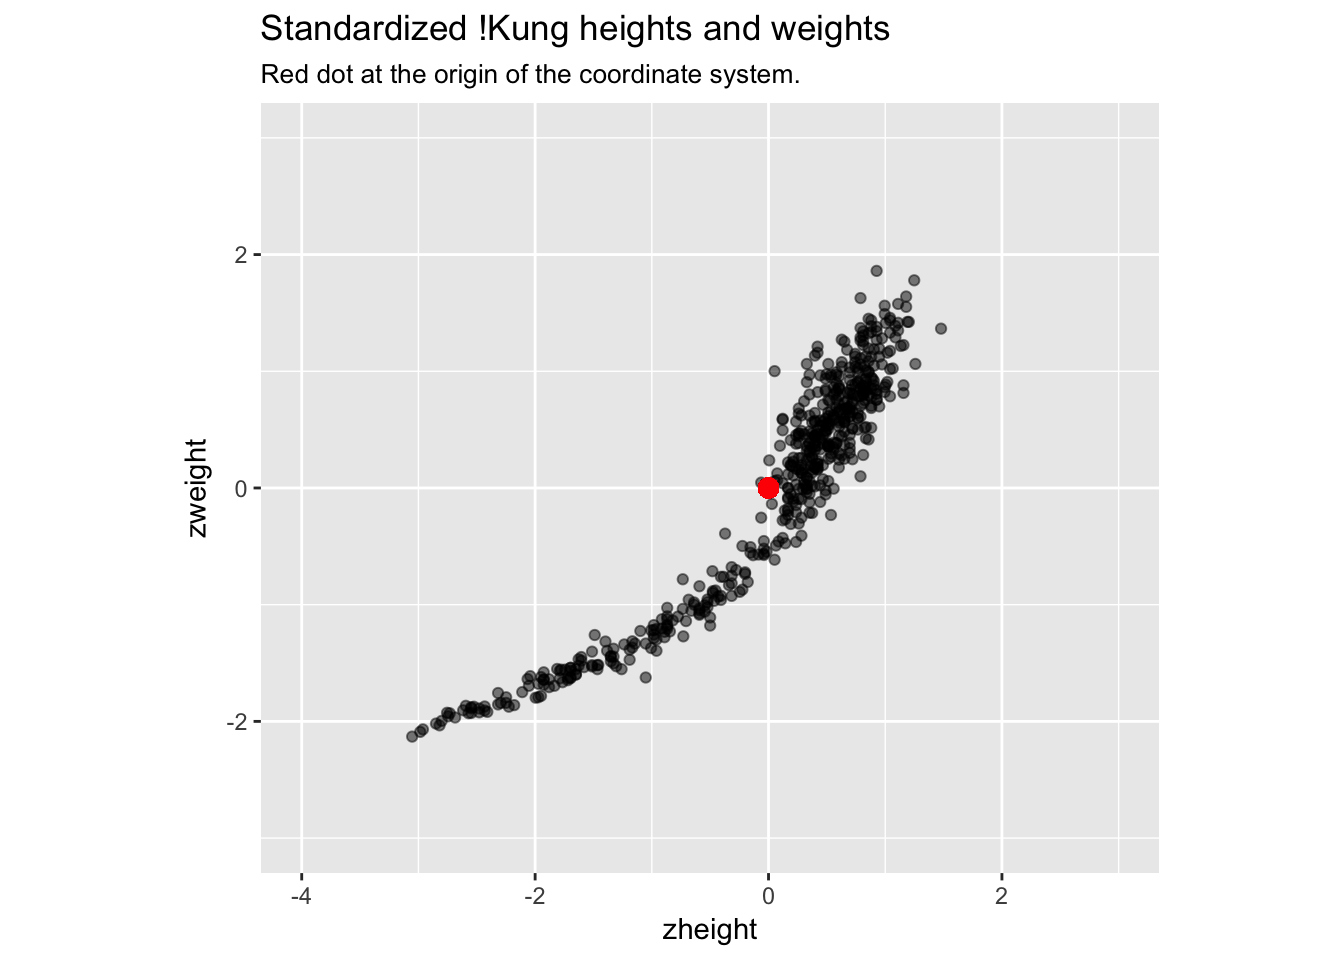
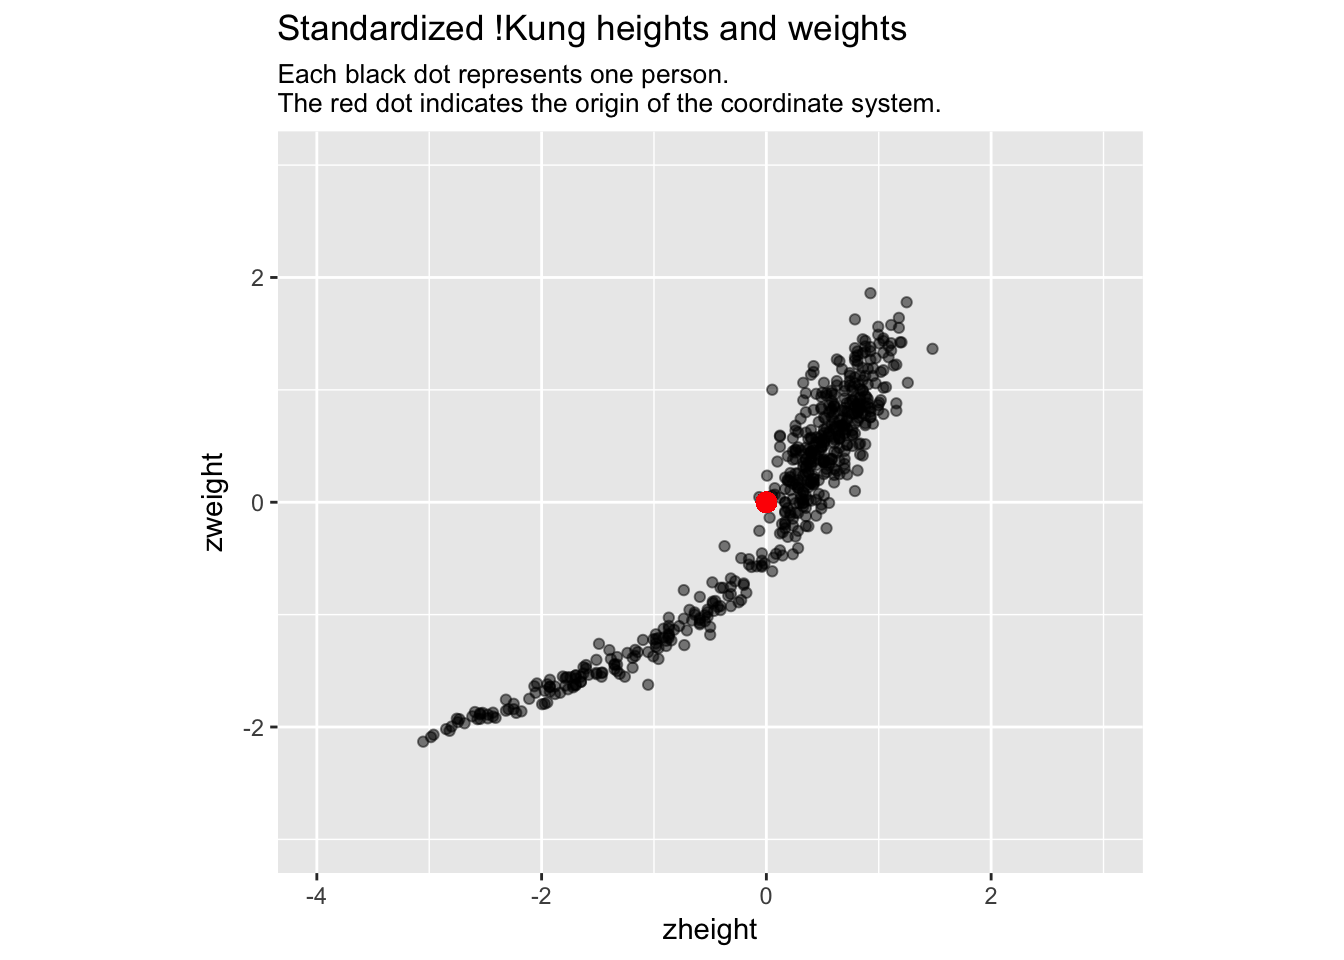
Several minor edits and some new links to stackexchange answers on PCA

diff --git a/2017/11/15/pca-new-coordinate-system-same-data/index.html b/2017/11/15/pca-new-coordinate-system-same-data/index.html
@@ -57,7 +57,7 @@
 
   <article class="article">
     
-    <span class="article-duration">9 min read</span>
+    <span class="article-duration">10 min read</span>
     
 
     <h1 class="article-title">PCA: new coordinate system, same data</h1>
@@ -79,8 +79,8 @@
 
 <p>The point is: we recognize the Big Dipper, not by the location of the stars in the sky, but by the location of each star <em>relative to the others</em>.</p>
 <p>The first and most important step in understanding PCA is to think about your data in the same way that you think about constellations: it’s the relationships between your data points, not their individual values, that matters.</p>
-<p>In a scientific study, we typically measure multiple values on each person (or population, or whatever), e.g., age, height, weight, sex, and so forth.</p>
-<p>The mental frame shift to make is to think about each data point as a single “star” in the sky, and all the data points as a constellation of stars in the sky. In other words, you can think about each “unit” in the data – person or observation or “row” – as one point in an <span class="math inline">\(N\)</span>-dimensional Euclidean space, where <span class="math inline">\(N\)</span> is the number of variables. Viewed this way, the data has a “structure” determined by the relationships of each observations to the others that will be preserved even if the coordinate system is changed.</p>
+<p>In a scientific study, we typically measure multiple values on each person (or population, or whatever), e.g., age, height, weight, sex, and so forth. The mental frame shift to make is to think about the collection of such values on a single person as a single data point, each such data point as a single “star” in the sky, and all the data points as a constellation of stars in the sky. If we had two measurements per person – e.g., height and weight – then each person (each data point) has two coordinates; if we had three measurements per person – e.g., height, weight, and age – then each person (each data point) has three coordinates, and so forth.</p>
+<p>In general, you can think about each “unit” in the data – person or observation or “row” – as one point in an <span class="math inline">\(N\)</span>-dimensional Euclidean space, where <span class="math inline">\(N\)</span> is the number of variables that you have measured. Viewed this way, the data has a “structure” determined by the relationships of each observations to the others that will be preserved even if the coordinate system is changed.</p>
 <p>Here is a concrete example with 2 variables per person – <em>height</em> and <em>weight</em> – and thus a 2-dimensional space of points:</p>
 <pre class="r"><code># Height and weight of !Kung individuals.
 # The !Kung are an ethnic group in
@@ -93,7 +93,7 @@ ggplot(d, aes(height, weight)) +
   scale_x_continuous(limits = c(0,200)) +
   scale_y_continuous(limits = c(0,70)) +
   geom_point(x = 0, y = 0, colour = &#39;red&#39;, size = 3) +
-  labs(title = &quot;!Kung heights and weights&quot;, subtitle = &quot;Red dot at the origin of the coordinate system.&quot;)</code></pre>
+  labs(title = &quot;!Kung heights and weights&quot;, subtitle = &quot;Each black dot represents one person.\nThe red dot indicates the origin of the coordinate system.&quot;)</code></pre>
 <p><img src="/post/2017-11-15-pca-new-coordinate-system-same-data_files/figure-html/unnamed-chunk-1-1.png" width="672" /></p>
 <p>Most students would (correctly) interpret this plot as depicting the relationship between height and weight.</p>
 <p>There is another way.</p>
@@ -107,7 +107,7 @@ ggplot(d, aes(zheight, zweight)) +
   geom_point(alpha = 0.5) +
   geom_point(x = 0, y = 0, colour = &#39;red&#39;, size = 3) +
   coord_fixed(xlim = c(-4, 3), ylim = c(-3, 3)) +
-  labs(title = &quot;Standardized !Kung heights and weights&quot;, subtitle = &quot;Red dot at the origin of the coordinate system.&quot;)</code></pre>
+  labs(title = &quot;Standardized !Kung heights and weights&quot;, subtitle = &quot;Each black dot represents one person.\nThe red dot indicates the origin of the coordinate system.&quot;)</code></pre>
 <p><img src="/post/2017-11-15-pca-new-coordinate-system-same-data_files/figure-html/unnamed-chunk-2-1.png" width="672" /></p>
 <p>Many folks would (correctly) interpret these new variables as transformed versions of the original data. However, I would like you to instead see this as a transformation of the <em>coordinate system</em>: we have translated the origin of the coordinate system to the middle of the data (the red dot), and we have put the <span class="math inline">\(x\)</span> and <span class="math inline">\(y\)</span> axes on the same scale (1 unit of x equals 1 unit of y). The data remain the same.</p>
 <p>The translation of the origin to the center of the data is useful because positive values on the <span class="math inline">\(x\)</span>-axis now indicate values that are greater than the mean, and negative values now indicate values that are less than the mean. The same goes for the <span class="math inline">\(y\)</span>-axis. The translation of the origin makes it easy to identify individuals whose heights and weights are above or below average. Transforming the coordinate system (not the data!) can help us interpret the data – the new origin has advantages over the original origin.</p>
@@ -123,7 +123,7 @@ ggplot(d, aes(x, y)) +
   geom_point(alpha = 0.5) +
   geom_point(x = 0, y = 0, colour = &#39;red&#39;, size = 3) +
   coord_fixed(xlim = c(-4, 3), ylim = c(-3, 3)) +
-  labs(title = &quot;Rotated !Kung heights and weights&quot;, subtitle = &quot;Red dot at the origin of the coordinate system.&quot;)</code></pre>
+  labs(title = &quot;Rotated !Kung heights and weights&quot;, subtitle = &quot;Each black dot represents one person.\nThe red dot indicates the origin of the coordinate system.&quot;)</code></pre>
 <p><img src="/post/2017-11-15-pca-new-coordinate-system-same-data_files/figure-html/unnamed-chunk-3-1.png" width="672" /></p>
 <p>Here are the pairs of coordinates of our first 6 data points in each of our 3 different coordinate systems (the original, standardized, and rotated coordinate system):</p>
 <table>
@@ -235,7 +235,7 @@ ggplot(d, aes(x, y)) +
   geom_point(alpha = 0.5) +
   geom_point(x = 0, y = 0, colour = &#39;red&#39;, size = 3) +
   coord_fixed(xlim = c(-4, 3), ylim = c(-3, 3)) +
-  labs(title = &quot;!Kung heights and weights rotated to maximize variance along x-axis&quot;, subtitle = &quot;Red dot at the origin of the coordinate system.&quot;)</code></pre>
+  labs(title = &quot;!Kung heights and weights rotated to maximize variance along x-axis&quot;, subtitle = &quot;Each black dot represents one person.\nThe red dot indicates the origin of the coordinate system.&quot;)</code></pre>
 <p><img src="/post/2017-11-15-pca-new-coordinate-system-same-data_files/figure-html/unnamed-chunk-7-1.png" width="672" /></p>
 <p>Guess what? The <span class="math inline">\(x\)</span>-axis is principal component 1 (PC1), and the <span class="math inline">\(y\)</span>-axis is principle component 2 (PC2), as we can confirm by comparing our results to those from R’s <code>prcomp</code> (principal component) function:</p>
 <pre class="r"><code># Compute PCA using the standard R function
@@ -325,7 +325,9 @@ sd(d$x)</code></pre>
 <p>In summary, principal components are simply a new orthogonal (perpendicular) coordinate system for your data, rotated so the variance of your data is maximized along the first axis (PC1); then, rotating around the first axis, the remaining variance is maximized along the second axis (PC2), which is perpendicular to the first; and so forth, until the directions of all axes are specified. Thus, there will be as many principal components as there are dimensions in your data (i.e., number of variables), and the variance will decrease across each successive component across each successive component.</p>
 <p>There are many uses of this new coordinate system. In our example, 97% of the variance in our data falls along PC1. Thus, we might interpret PC1, which is a combination of height and weight, as something like <em>size</em>. By rotating our coordinate system, we have identified underlying “structure” in our data. For 2-d data like our example, PCA is not that useful. But when our data have many dimensions, PCA and related techniques can find structure that would be difficult or impossible to find without them.</p>
 <hr />
-<p><em>Note: The <code>prcomp</code> and other PCA functions do not find these rotations in the same way we did. Instead, they use methods like singular value decomposition, which you can read about on <a href="https://en.wikipedia.org/wiki/Principal_component_analysis">wikipedia</a>.</em></p>
+<p><em>Note #1: The <code>prcomp</code> and other PCA functions do not find these rotations in the same way we did. Instead, they use methods like singular value decomposition, which you can read about on <a href="https://en.wikipedia.org/wiki/Principal_component_analysis">wikipedia</a>.</em></p>
+<p><em>Note #2: You might have heard of rotation after PCA, or terms like varimax rotation. These also seek useful rotations, but are distinct from PCA. You can read more about them, and their relationship to PCA <a href="https://stats.stackexchange.com/questions/612/is-pca-followed-by-a-rotation-such-as-varimax-still-pca">here</a>, <a href="https://stats.stackexchange.com/questions/151653/what-is-the-intuitive-reason-behind-doing-rotations-in-factor-analysis-pca-how">here</a>, and <a href="https://stats.stackexchange.com/questions/160422/what-are-rotated-and-unrotated-principal-components-given-that-pca-always-r">here</a>.</em></p>
+<p><em>Note #3: There is a great set of alternative explanations of PCA <a href="https://stats.stackexchange.com/questions/2691/making-sense-of-principal-component-analysis-eigenvectors-eigenvalues">here</a> .</em></p>
 
     </div>
   </article>
